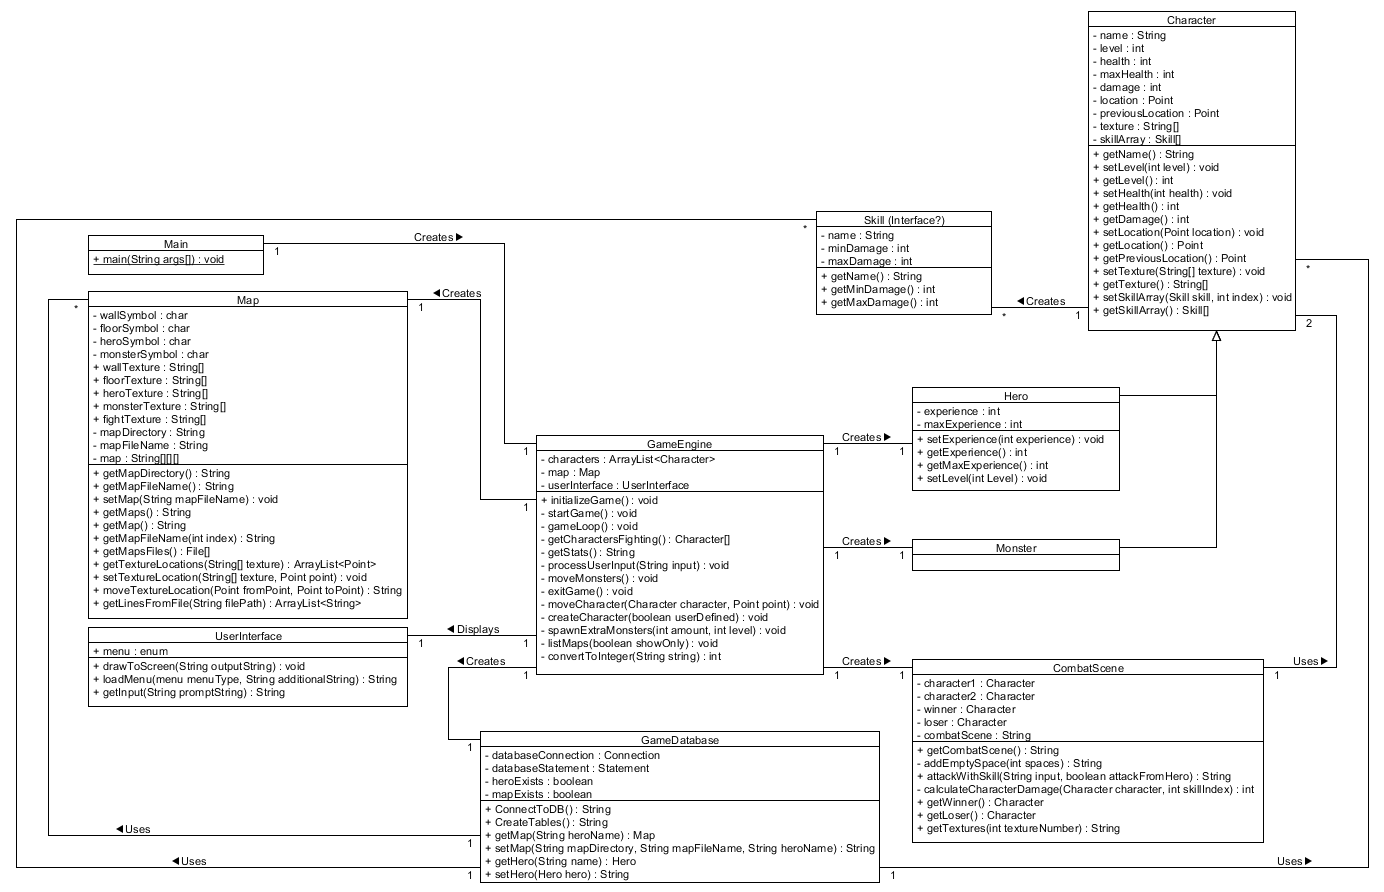
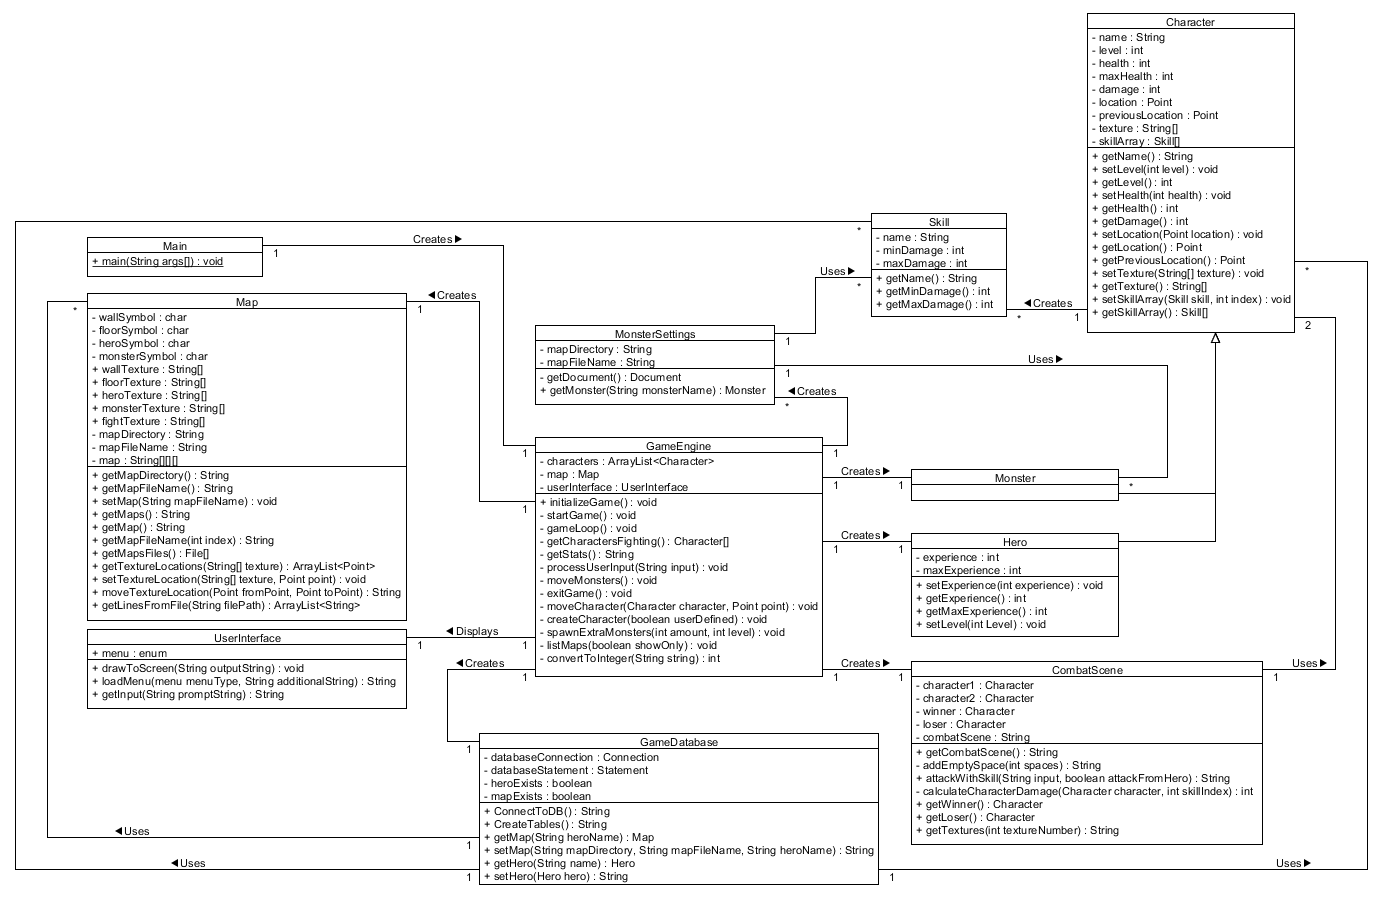
Updated UML and did a little refacturing

diff --git a/src/dk/Hero_vs_Monsters/main/GameEngine.java b/src/dk/Hero_vs_Monsters/main/GameEngine.java
@@ -458,13 +458,13 @@ public class GameEngine {
         }
         else {
 
-            MonsterSettings monsterSettings = new MonsterSettings();
+            MonsterSettings monsterSettings = new MonsterSettings(map.getMapDirectory(), map.getMapFileName());
             
             Monster monster = new Monster("MONSTER1", 1);
             
             monster.setSkillArray(new Skill("Basic", 1, 10), 0);
             
-            Monster newMonsterSettings = monsterSettings.getMonster(map.getMapDirectory(), map.getMapFileName(), monster.getName());
+            Monster newMonsterSettings = monsterSettings.getMonster(monster.getName());
             
             if (newMonsterSettings != null)
                 monster = newMonsterSettings;
@@ -503,7 +503,7 @@ public class GameEngine {
                     
                     monster.setSkillArray(new Skill("Basic", 1, 10), 0);
 
-                    newMonsterSettings = monsterSettings.getMonster(map.getMapDirectory(), map.getMapFileName(), monster.getName());
+                    newMonsterSettings = monsterSettings.getMonster(monster.getName());
 
                     if (newMonsterSettings != null)
                         monster = newMonsterSettings;
@@ -537,13 +537,13 @@ public class GameEngine {
 
         for (int i = 0; i < amount; i++) {
 
-            MonsterSettings monsterSettings = new MonsterSettings();
+            MonsterSettings monsterSettings = new MonsterSettings(map.getMapDirectory(), map.getMapFileName());
             
             Character monster = new Monster("MONSTER" + String.valueOf(i + 1), 1);
             
             monster.setSkillArray(new Skill("Basic", 1, 10), 0);
 
-            Monster newMonsterSettings = monsterSettings.getMonster(map.getMapDirectory(), map.getMapFileName(), monster.getName());
+            Monster newMonsterSettings = monsterSettings.getMonster(monster.getName());
 
             if (newMonsterSettings != null)
                 monster = newMonsterSettings;

diff --git a/src/dk/Hero_vs_Monsters/main/MonsterSettings.java b/src/dk/Hero_vs_Monsters/main/MonsterSettings.java
@@ -11,12 +11,26 @@ import java.io.*;
  */
 public class MonsterSettings {
 
+    /** These strings represent the path for the xml settings file. */
+    private String mapDirectory, mapFileName;
+
     /**
-     * Returns a document from a provided xml file.
+     * Constructor.
      * @param mapDirectory - This is the directory of the maps, the xml settings file must be located here.
      * @param mapFileName - This is the name of the map file, the xml settings file must have the same name.
      */
-    private Document getDocument(String mapDirectory, String mapFileName) {
+    public MonsterSettings(String mapDirectory, String mapFileName) {
+        
+        this.mapDirectory = mapDirectory;
+        
+        this.mapFileName = mapFileName;
+        
+    }
+    
+    /**
+     * Returns a document from a provided xml file.
+     */
+    private Document getDocument() {
 
         Document document;
         
@@ -41,16 +55,14 @@ public class MonsterSettings {
 
     /**
      * Return a monster based on the settings in the provided xml file.
-     * If no monster settings is found, the a null will be returned. 
-     * @param mapDirectory - This is the directory of the maps, the xml settings file must be located here.
-     * @param mapFileName - This is the name of the map file, the xml settings file must have the same name.
+     * If no monster settings is found, the a null will be returned.
      * @param monsterName - This is the name of which monster to find and return.
      */
-    public Monster getMonster(String mapDirectory, String mapFileName, String monsterName) {
+    public Monster getMonster(String monsterName) {
 
         Monster monster = null;
 
-        Document document = getDocument(mapDirectory, mapFileName);
+        Document document = getDocument();
         
         if (document == null)
             return null;

diff --git a/src/dk/Hero_vs_Monsters/main/GameDatabase.java b/src/dk/Hero_vs_Monsters/main/GameDatabase.java
@@ -32,9 +32,7 @@ public class GameDatabase {
     private String ConnectToDB() {
         
         try {
-            
-            Class.forName("org.sqlite.JDBC");
-            
+
             databaseConnection = DriverManager.getConnection("jdbc:sqlite:GameDatabase.db");
             
         }
